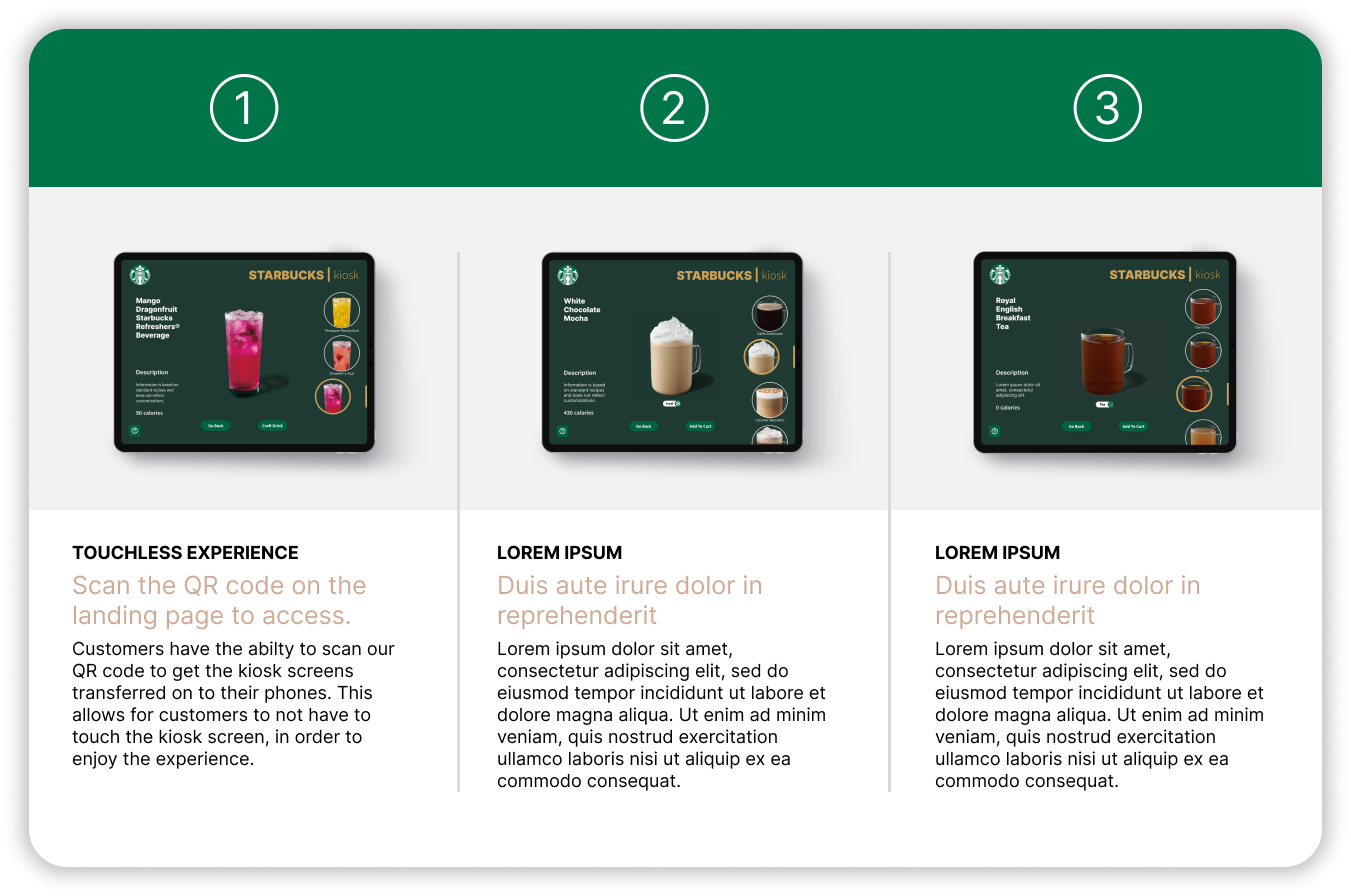
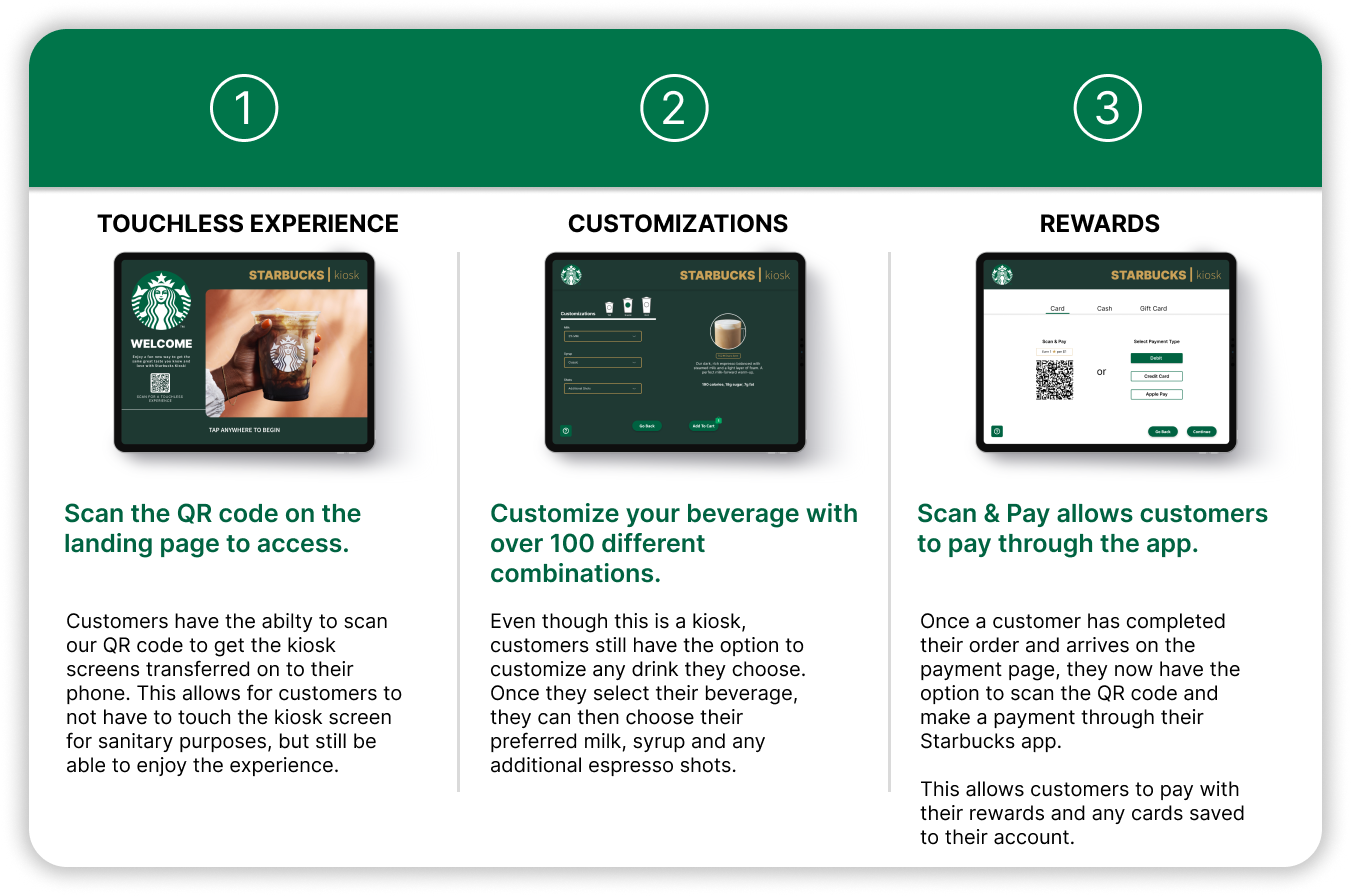
Update 1.1.9
Major updates

diff --git a/index.html b/index.html
@@ -26,6 +26,7 @@
         <title>Ux_Design_Class_Final_Project</title>
         <meta name="description" content="">
         <meta name="viewport" content="width=device-width, initial-scale=1">
+        <meta name="viewport" content="width=device-width, initial-scale=1, shrink-to-fit=no">
 
         <link rel="stylesheet" href="css\style.css" type="text/css">
         <link href="css/style.css" rel="stylesheet" type="text/css">
@@ -44,14 +45,17 @@
         <img src="images/logo_star_text.svg" width="75%" height="50vh">
        <div class="topnav-right"> 
        <a class="nav-link" href="#About">About<span class="sr-only">(current)</span></a>
-        <a class="nav-link" href="#Demo">Demo</a>
+        <a class="nav-link" href="#Works">How It Works</a>
         <a class="nav-link" href="#FAQs">FAQs</a>
         <a class="nav-link" href="#Locations">Locations</a>
-        <a class="nav-link" href="#Contact"><button>Contact Us</button></a>
-        </div>
+        <a class="nav-link" href="#Contact"><button>Contact Us</button></a> 
+      </div>
     </a>
 </nav>
 </div>
+
+<!--Splash intro-->
+
 
 <!--Nav Bar ends here-->
 
@@ -99,51 +103,93 @@
 <!--About ends ends here-->
 
 <!--Demo starts here-->
-  <Section id="Demo" class="Demo1">
+  <Section id="Works" class="Demo1">
     <div class="demoit">
-        <span class="Demo_kiosk"> Demo kiosk</span>
+        <span class="Demo_kiosk"> How It Works</span>
     </div>
     <div class="demodis">
       <span class="Starbucks_demo_dis">
-       <p>Some demo info and video will play here,</p>
+      <h1>Special Features</h1>
+       <p>After our first launch, we received some great user feedback and implemented it into our newly renovated kiosk. Here are our three new special features!</p>
 
       </span>
       <div class="container-md"><div><img src="images/spec_feat_demo.png" width="95%" height="95%"></div>
     </div>
   </div>
-
-    <div class="jumbotron jumbotron">
-        <div class="bgcontainer">
-            <img src="/images/" alt="">
-          <div class="grid1">
-          <div class="boxone">
-          <h1 class="display-4">Kiosk Refreshers</h1>
-          <p class="Dis1">Mango Dragonfruit.</p>
-        </div>
-        </div>
-        </div>
-        </div>
-      </div>
   </Section>
 
 <!--Demo ends here-->
 
 <!--FAQs starts here-->
 
-<Section id="FAQs" class="FAQs"></Section>
+<Section id="FAQs" class="FAQs" height="100vh">
+  
+  <div class="jumbotron jumbotron">
+    <div class="bgcontainer">
+      <div class="grid1">
+      <div class="boxone">
+      <h1 class="display-4">FAQs</h1>
+      
+
+
+      <p class="Dis1"></p>
+      <p class="Dis2"></p>
+      <p class="Dis3"></p>
+    </div>
+    </div>
+    </div>
+    </div>
+  </div>
+    <div class="jumbotron jumbotron-fluid">
+      <div class="container">
+        <h1 class="display-4">Demo</h1>
+        <p class="lead">This is a modified jumbotron that occupies the entire horizontal space of its parent.</p>
+      </div>
+    </div>
+</Section>
 <!--FAQs ends here-->
 
 <!--Locations starts here-->
-<Section class="Locations"></Section>
+
+<Section id="Locations" class="Locations">
+
+  <div class="search" display="grid">
+    <div><span class="Search_It">Find a Kiosk Near You</span></div>
+  </div>
+
+  <div class="Store-Locator-Starbucks-Coffee-Company-1-1">
+    <div class="grid">
+      <div class="box_search1" ><img src="images/Store-Locator-Starbucks-Coffee-Company (1).png"></div>
+      <div class="box_search2" ><img src="images/Store-Locator-Starbucks-Coffee-Company (2).png"></div>
+    </div>
+  </div>
+
+  <!-- live map 
+    <div class="mapouter"><div class="gmap_canvas"><iframe width="650" height="440" id="gmap_canvas" src="https://maps.google.com/maps?q=21%2014th%20Street%20NE%20Atlanta,%20GA%2030309&t=&z=13&ie=UTF8&iwloc=&output=embed" frameborder="0" scrolling="no" marginheight="0" marginwidth="0"></iframe><a href="https://fmovies-online.net">fmovies</a><br><style>.mapouter{position:relative;text-align:right;height:440px;width:650px;}</style><a href="https://www.embedgooglemap.net">embedding map</a></div></div>
+  -->
+  </div>
+</Section>
 
 <!--Locations ends here-->
 <!--footer starts here-->
-<div class="footer">
-  
-
-  <p>Privacy Policy | Terms of Use | CA Supply Chain Act | Cookie Preferences</p>
-  
+<div class="footer" class="grid">
+  <div class="boxlogo">
+  <a href="https://open.spotify.com/user/starbucks/" class="fa fa-spotify"><img src="images/icon_spotify.svg" alt="icon_spotify"></a>
+  <a href="https://facebook.com/starbucks/" class="fa fa-facebook"><img src="images/icon_facebook.svg" alt="facebook.svg"></a>
+  <a href="https://www.pinterest.com/starbucks/" class="fa fa-pinterest"><img src="images/icon_pintrest.svg" alt="icon_pintrest"></a>
+  <a href="https://instagram.com/starbucks/" class="fa fa-instagram"><img src="images/icon_instagram.svg" alt="icon_instagram"></a>
+  <a href="https://www.youtube.com/starbucks/" class="fa fa-youtube"><img src="images/icon_youtube.svg" alt="icon_youtube"></a>
+  <a href="https://twitter.com/starbucks/" class="fa fa-twitter"><img src="images/icon_twitter.svg" alt="icon_twitter"></a>
 </div>
+
+<div class="boxtext">
+  <p>Privacy Policy | Terms of Use | CA Supply Chain Act | Cookie Preferences
+    This site is for educational purposes only. 
+    <p>Copyright Disclaimer under section 107 of the Copyright Act 1976, allowance is made for “fair use” for purposes such as criticism, comment, news reporting, teaching, scholarship, education and research.</p>
+  </p>
+  </div>
+
+
 <!--footer ends here-->
 
 <!--Bootsrap4 links tab-->

diff --git a/css/style.css b/css/style.css
@@ -15,7 +15,7 @@ a.nav-link {
     margin: 0;
     align-items: right;
     text-decoration: none;
-    font-size: 16px;
+    font-size: 18px;
     font-weight: bold;
     font-family: 'inter';
     color: black;
@@ -50,10 +50,10 @@ a.nav-link button:hover {
 
 div.topnav-right {
     text-align: right;
-    padding: 14px,16px;
+    padding: 16px,18px;
     margin-right: 12px;
     text-decoration: none;
-    font-size: 17px;
+    font-size: 20px;
     display: inline-flex;
     justify-content: right;
 }
@@ -71,6 +71,10 @@ div.topnav-right {
 }
 
 /*-- Nav bar code here ends--*/
+
+/*--splash--*/
+
+/*--splash ends--*/
 
 /*-- hero here--*/
 div.row {
@@ -286,6 +290,11 @@ div.aboutdis {
     color: #fff;
   }
 
+.demodis h1 {
+    font-size: xx-large;
+    font-weight: bolder;
+}
+
 div.demoit {
     text-align: center;
     padding-top: 5%;
@@ -300,6 +309,12 @@ div.demodis {
     padding-left: 200px;
     padding-right: 200px;
     background-color: #006341;
+}
+
+.demodis h1 {
+    font-size: xx-large;
+    font-weight: bolder;
+    padding-bottom: 20px;
 }
 
 @media screen and (max-width: 1200px) and (min-width: 400px) {
@@ -353,13 +368,31 @@ div.bgcontainer h1.display-4 {
     padding-left: 50px;
     text-emphasis:initial;
     text-emphasis-color: green;
+    padding-top: 45px;
 }
 
-div.bgcontainer p {
+div.bgcontainer p.Dis1 {
     padding-left: 50px;
+    padding-right: 250px;
     color: #1e3932;
     font-size: 46px;
 }
+
+div.bgcontainer p.Dis2 {
+    padding-left: 50px;
+    padding-right: 250px;
+    color: #1e3932;
+    font-size: 36px;
+}
+
+div.bgcontainer p.Dis3 {
+    padding-left: 50px;
+    padding-right: 250px;
+    color: #1e3932;
+    font-size: 56px;
+    font-weight: bolder;
+}
+
 
 div.grid1 {
     background-color: transparent;
@@ -371,21 +404,92 @@ div.grid1 {
 }
 /*--Demo section ends here--*/
 
+/*-- FAQs section--*/
+div.jumbotron-fluid{
+    background-repeat: no-repeat;
+    background-position:center;
+    background-size: cover;
+    height: 100vh;
+    width: 100%;
+    background-image: url(../images/Palm_Cafe_Wroclaw_Poland.jpg);
+
+}
+
+/*-- FAQs section ends--*/
+/*-- Locations start here--*/
+
+.search {
+display: flex;
+text-align: center;
+justify-content: center;
+font-size:67px;
+font-family: inter;
+font-weight: bold;
+color: #ffffff;
+background-color: #1E3932;
+height: 200px;
+padding-top: 50px;
+}
+
+.box{
+    width: 100%;
+    text-align:center;
+}
+
+.Store-Locator-Starbucks-Coffee-Company-1-1 {
+    width: 100%;
+    height: 45vh;
+    margin:0;
+    padding: 0;
+  }
+
+.box_search1 {
+    padding-left: 100px;
+}
+/*-- live map
+.gmap_canvas {overflow:hidden;background:none!important;height:440px;width:650px;}
+--*/
+
+
+/*-- Location ends--*/
+
 .footer {
     position:relative;
     left: 0;
     width: 100%;
-    background-color: red;
+    min-height: 250px;
+    background-color: #1E3932;
     color: white;
     text-align: center;
 }
 
 .footer {
-    display: flex;
-    align-items: flex-start;
+    display: grid;
+    align-items: left;
     justify-content: left;
     line-height: 3rem;
     height: 100px;
     padding-left: 50px;
+    text-align:start;
 
+}
+
+.footer .boxlogo {
+    display: flex;
+    justify-content:flex-start;
+    align-items:center;
+    padding-top: 5px;
+ 
+  }
+
+  .footer .boxtext {
+    grid-column: 1;
+    grid-row: 2;
+    padding-left: 5px;
+    text-decoration: none;
+    padding-right: 150px;
+ }
+
+.footer {
+    font-size: 18px;
 }

diff --git a/script.js b/script.js
@@ -6,3 +6,5 @@ document.querySelectorAll('a[href^="#"]').forEach(anchor => {
       });
   });
 });
+
+
